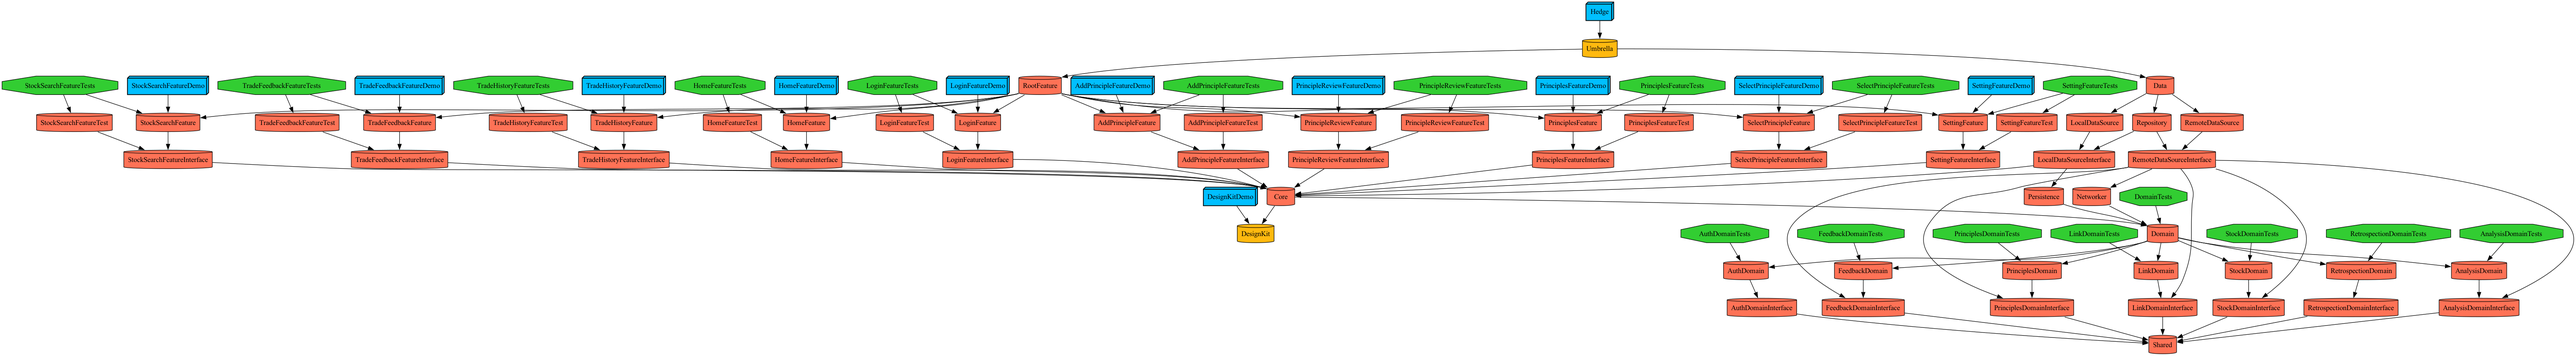
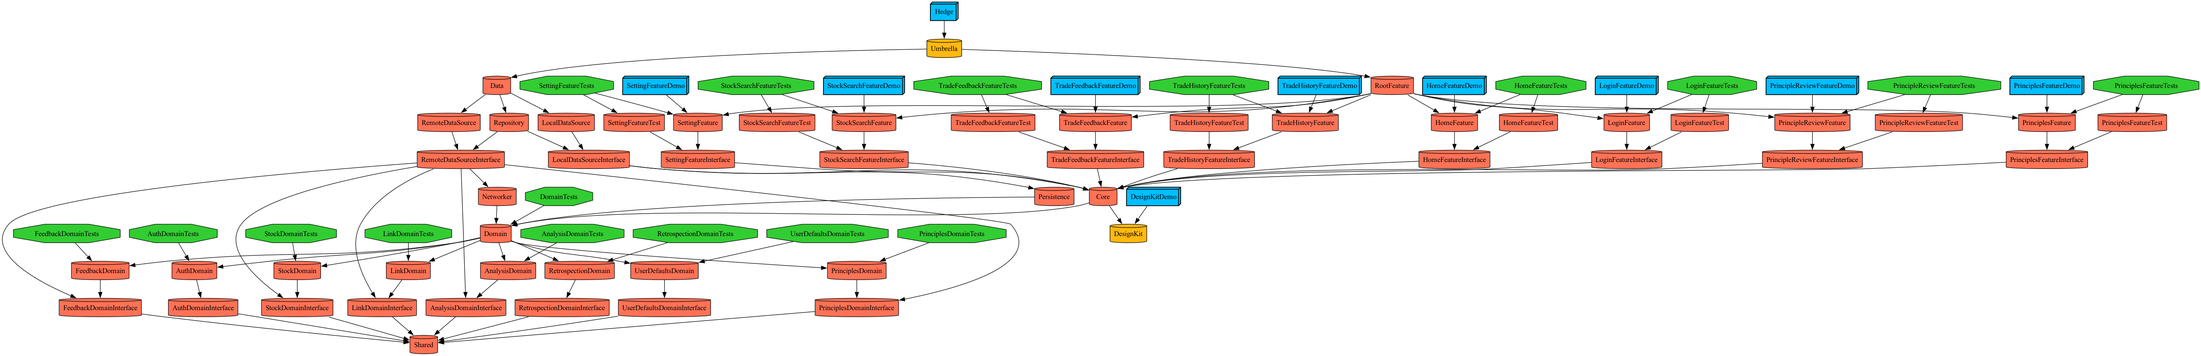
feat. last Retrospection dot

diff --git a/Hedge/Projects/Features/HomeFeature/Interface/Sources/Feature/HomeFeature.swift b/Hedge/Projects/Features/HomeFeature/Interface/Sources/Feature/HomeFeature.swift
@@ -3,18 +3,25 @@ import ComposableArchitecture
 
 import Core
 import RetrospectionDomainInterface
+import UserDefaultsDomainInterface
 
 @Reducer
 public struct HomeFeature {
     private let fetchRetrospectionUseCase: RetrospectionUseCase
     private let fetchBadgeReportUseCase: FetchBadgeReportUseCase
+    private let getUserDefaultsUseCase: GetUserDefaultsUseCase
+    private let deleteUserDefaultsUseCase: DeleteUserDefaultsUseCase
     
     public init(
         fetchRetrospectionUseCase: RetrospectionUseCase,
-        fetchBadgeReportUseCase: FetchBadgeReportUseCase
+        fetchBadgeReportUseCase: FetchBadgeReportUseCase,
+        getUserDefaultsUseCase: GetUserDefaultsUseCase,
+        deleteUserDefaultsUseCase: DeleteUserDefaultsUseCase
     ) {
         self.fetchRetrospectionUseCase = fetchRetrospectionUseCase
         self.fetchBadgeReportUseCase = fetchBadgeReportUseCase
+        self.getUserDefaultsUseCase = getUserDefaultsUseCase
+        self.deleteUserDefaultsUseCase = deleteUserDefaultsUseCase
     }
     
     @ObservableState
@@ -23,6 +30,7 @@ public struct HomeFeature {
         public var selectedType: TabType = .home
         public var retrospectionCompanies: [RetrospectionCompany] = []
         public var lastRetrospectionComapnyName: String?
+        public var lastRetrospectionID: Int?
         public var selectedCompanyName: String?
         public var isBadgePopupPresented: Bool = false
         public var isLoadingRetrospections: Bool = false
@@ -64,6 +72,7 @@ public struct HomeFeature {
         case fetchRetrospectionsFailure(Error)
         case fetchBadgeReportSuccess(RetrospectionBadgeReport)
         case fetchBadgeReportFailure(Error)
+        case deleteLastRetrospectionID
     }
     public enum AsyncAction {
         case fetchRetrospections
@@ -127,11 +136,11 @@ extension HomeFeature {
             )
         case .restrospectionButtonTapped:
             state.retrospectionButtonActive.toggle()
-            return .none
+            return .send(.inner(.deleteLastRetrospectionID))
         case .companyTapped(let selectedSymbol):
             state.selectedCompanyName = selectedSymbol
             updateGroupedRetrospections(for: selectedSymbol, state: &state)
-            return .none
+            return .send(.inner(.deleteLastRetrospectionID))
         case .retrospectTapped(let type):
             state.retrospectionButtonActive = false
             return .send(.delegate(.pushToStockSearch(type)))
@@ -157,6 +166,9 @@ extension HomeFeature {
         _ action: InnerAction
     ) -> Effect<Action> {
         switch action {
+        case .deleteLastRetrospectionID:
+            state.lastRetrospectionID = nil
+            return .none
         case .fetchRetrospectionsSuccess(let companies):
             state.retrospectionCompanies = companies
             
@@ -164,6 +176,11 @@ extension HomeFeature {
                 state.selectedCompanyName = lastRetrospectionComapnyName
             } else {
                 state.selectedCompanyName = companies.first?.companyName
+            }
+            
+            if let lastRetrospectionID: Int? = getUserDefaultsUseCase.execute(.retrospectionID) {
+                state.lastRetrospectionID = lastRetrospectionID
+                deleteUserDefaultsUseCase.execute(.retrospectionID)
             }
             
             if let selectedSymbol = state.selectedCompanyName {

diff --git a/Hedge/Projects/Features/PrincipleReviewFeature/Interface/Sources/Feature/PrincipleReviewFeature.swift b/Hedge/Projects/Features/PrincipleReviewFeature/Interface/Sources/Feature/PrincipleReviewFeature.swift
@@ -14,6 +14,7 @@ import StockDomainInterface
 import PrinciplesDomainInterface
 import RetrospectionDomainInterface
 import FeedbackDomainInterface
+import UserDefaultsDomainInterface
 
 @Reducer
 public struct PrincipleReviewFeature {
@@ -22,19 +23,22 @@ public struct PrincipleReviewFeature {
     private let uploadImageUseCase: UploadRetrospectionImageUseCase
     private let createRetrospectionUseCase: CreateRetrospectionUseCase
     private let fetchFeedbackUseCase: FetchFeedbackUseCase
+    private let saveUserDefaultsUseCase: SaveUserDefaultsUseCase
     
     public init(
         coordinator: PrincipleReviewCoordinator,
         fetchLinkUseCase: FetchLinkUseCase,
         uploadImageUseCase: UploadRetrospectionImageUseCase,
         createRetrospectionUseCase: CreateRetrospectionUseCase,
-        fetchFeedbackUseCase: FetchFeedbackUseCase
+        fetchFeedbackUseCase: FetchFeedbackUseCase,
+        saveUserDefaultsUseCase: SaveUserDefaultsUseCase
     ) {
         self.coordinator = coordinator
         self.fetchLinkUseCase = fetchLinkUseCase
         self.uploadImageUseCase = uploadImageUseCase
         self.createRetrospectionUseCase = createRetrospectionUseCase
         self.fetchFeedbackUseCase = fetchFeedbackUseCase
+        self.saveUserDefaultsUseCase = saveUserDefaultsUseCase
     }
     
     @ObservableState
@@ -459,6 +463,7 @@ extension PrincipleReviewFeature {
         case .createRetrospectionSuccess(let result):
             state.isSubmitting = true
             state.submissionResult = result
+            saveUserDefaultsUseCase.execute(value: result.id, .retrospectionID)
             return .send(.async(.fetchFeedback(result.id)))
         case .createRetrospectionFailure(let error):
             state.isSubmitting = false

diff --git a/Hedge/Projects/Features/HomeFeature/Sources/HomeView.swift b/Hedge/Projects/Features/HomeFeature/Sources/HomeView.swift
@@ -380,10 +380,21 @@ extension HomeView {
     @ViewBuilder
     private func retrospectItemView(retrospection: Retrospection) -> some View {
         VStack(alignment: .leading, spacing: 0) {
+            
+            var isLast: Bool = (store.lastRetrospectionID == retrospection.id)
+            
             // 금액 • 주수
-            Text("\(formatPrice(retrospection.price))원 • \(retrospection.volume)주")
-                .font(FontModel.h2Semibold)
-                .foregroundStyle(Color.hedgeUI.textTitle)
+            HStack(alignment: .top, spacing: 2) {
+                Text("\(formatPrice(retrospection.price))원 • \(retrospection.volume)주")
+                    .font(FontModel.h2Semibold)
+                    .foregroundStyle(Color.hedgeUI.textTitle)
+                
+                if isLast {
+                    Circle()
+                        .foregroundStyle(Color.hedgeUI.brandPrimary)
+                        .frame(width: 6, height: 6)
+                }
+            }
             
             // 매수/매도 + 날짜
             HStack(spacing: 5) {

diff --git a/Hedge/Projects/Features/PrincipleReviewFeature/Sources/Coordinator/DefaultPrincipleReviewCoordinator.swift b/Hedge/Projects/Features/PrincipleReviewFeature/Sources/Coordinator/DefaultPrincipleReviewCoordinator.swift
@@ -19,6 +19,7 @@ import StockDomainInterface
 import LinkDomainInterface
 import RetrospectionDomainInterface
 import FeedbackDomainInterface
+import UserDefaultsDomainInterface
 import Shared
 
 public final class DefaultPrincipleReviewCoordinator: PrincipleReviewCoordinator {
@@ -57,7 +58,8 @@ public final class DefaultPrincipleReviewCoordinator: PrincipleReviewCoordinator
                             fetchLinkUseCase: DIContainer.resolve(FetchLinkUseCase.self),
                             uploadImageUseCase: DIContainer.resolve(UploadRetrospectionImageUseCase.self),
                             createRetrospectionUseCase: DIContainer.resolve(CreateRetrospectionUseCase.self),
-                            fetchFeedbackUseCase: DIContainer.resolve(FetchFeedbackUseCase.self)
+                            fetchFeedbackUseCase: DIContainer.resolve(FetchFeedbackUseCase.self),
+                            saveUserDefaultsUseCase: DIContainer.resolve(SaveUserDefaultsUseCase.self)
                         )
                     }
                 )

diff --git a/Hedge/Projects/Features/RootFeature/Sources/Presentation/TabBarFeature.swift b/Hedge/Projects/Features/RootFeature/Sources/Presentation/TabBarFeature.swift
@@ -13,6 +13,7 @@ import Shared
 import HomeFeatureInterface
 import HomeFeature
 import RetrospectionDomainInterface
+import UserDefaultsDomainInterface
 
 @Reducer
 public struct TabBarFeature {
@@ -52,7 +53,9 @@ public struct TabBarFeature {
             .ifLet(\.homeState, action: \.delegate.homeAction) {
                 HomeFeature(
                     fetchRetrospectionUseCase: DIContainer.resolve(RetrospectionUseCase.self),
-                    fetchBadgeReportUseCase: DIContainer.resolve(FetchBadgeReportUseCase.self)
+                    fetchBadgeReportUseCase: DIContainer.resolve(FetchBadgeReportUseCase.self),
+                    getUserDefaultsUseCase: DIContainer.resolve(GetUserDefaultsUseCase.self),
+                    deleteUserDefaultsUseCase: DIContainer.resolve(DeleteUserDefaultsUseCase.self)
                 )
             }
     }

diff --git a/Hedge/Projects/Umbrella/Sources/Assembly/DomainAssembly.swift b/Hedge/Projects/Umbrella/Sources/Assembly/DomainAssembly.swift
@@ -23,6 +23,8 @@ import LinkDomainInterface
 import LinkDomain
 import RetrospectionDomainInterface
 import RetrospectionDomain
+import UserDefaultsDomainInterface
+import UserDefaultsDomain
 
 public struct DomainAssembly: Assembly {
     public init() {}
@@ -106,6 +108,18 @@ public struct DomainAssembly: Assembly {
             }
             
             return FetchBadgeReport(repository: repository)
+        }
+        
+        container.register(SaveUserDefaultsUseCase.self) { _ in
+            SaveUserDefaults()
+        }
+        
+        container.register(GetUserDefaultsUseCase.self) { _ in
+            GetUserDefaults()
+        }
+        
+        container.register(DeleteUserDefaultsUseCase.self) { _ in
+            DeleteUserDefaults()
         }
     }
 }

diff --git a/Hedge/Projects/Domains/UserDefaultsDomain/Sources/GetUserDefaults.swift b/Hedge/Projects/Domains/UserDefaultsDomain/Sources/GetUserDefaults.swift
@@ -1,0 +1,22 @@
+//
+//  GetUserDefaults.swift
+//  UserDefaultsDomain
+//
+//  Created by Auto on 11/11/25.
+//  Copyright © 2025 HedgeCompany. All rights reserved.
+//
+
+import Foundation
+
+import UserDefaultsDomainInterface
+
+public struct GetUserDefaults: GetUserDefaultsUseCase {
+    
+    public init() {}
+    
+    public func execute<T>(_ type: UserDefaultsDomainInterface.UserDefaultsType) -> T? {
+        let value = UserDefaults.standard.integer(forKey: type.rawValue)
+        return value as? T
+    }
+}
+

diff --git a/Hedge/Projects/Domains/UserDefaultsDomain/Sources/SaveUserDefaults.swift b/Hedge/Projects/Domains/UserDefaultsDomain/Sources/SaveUserDefaults.swift
@@ -1,0 +1,21 @@
+//
+//  SaveUserDefaults.swift
+//  UserDefaultsDomain
+//
+//  Created by Auto on 11/11/25.
+//  Copyright © 2025 HedgeCompany. All rights reserved.
+//
+
+import Foundation
+
+import UserDefaultsDomainInterface
+
+public struct SaveUserDefaults: SaveUserDefaultsUseCase {
+    
+    public init() {}
+    
+    public func execute<T>(value: T, _ type: UserDefaultsDomainInterface.UserDefaultsType) {
+        UserDefaults.standard.set(value, forKey: type.rawValue)
+    }
+}
+

diff --git a/Hedge/Projects/CoreKit/Core/Sources/TempStorage/TempStorage.swift b/Hedge/Projects/CoreKit/Core/Sources/TempStorage/TempStorage.swift
@@ -1,0 +1,22 @@
+//
+//  TempStorage.swift
+//  Core
+//
+//  Created by 이중엽 on 11/13/25.
+//  Copyright © 2025 HedgeCompany. All rights reserved.
+//
+
+import Foundation
+
+public enum TempStorage {
+    
+    private static var lastRetrospectionID: Int? = nil
+    
+    public static func getLastRetrospectionID() -> Int? {
+        return lastRetrospectionID
+    }
+    
+    public static func setLastRetrospectionID(_ id: Int?) {
+        self.lastRetrospectionID = id
+    }
+}

diff --git a/Hedge/Projects/Domains/UserDefaultsDomain/Sources/DeleteUserDefaults.swift b/Hedge/Projects/Domains/UserDefaultsDomain/Sources/DeleteUserDefaults.swift
@@ -1,0 +1,21 @@
+//
+//  DeleteUserDefaults.swift
+//  UserDefaultsDomain
+//
+//  Created by Auto on 11/11/25.
+//  Copyright © 2025 HedgeCompany. All rights reserved.
+//
+
+import Foundation
+
+import UserDefaultsDomainInterface
+
+public struct DeleteUserDefaults: DeleteUserDefaultsUseCase {
+    
+    public init() {}
+    
+    public func execute(_ type: UserDefaultsDomainInterface.UserDefaultsType) {
+        UserDefaults.standard.removeObject(forKey: type.rawValue)
+    }
+}
+

diff --git a/Hedge/Tuist/ProjectDescriptionHelpers/Extension/Dependency+Domain.swift b/Hedge/Tuist/ProjectDescriptionHelpers/Extension/Dependency+Domain.swift
@@ -49,4 +49,10 @@ public extension TargetDependency.Domain {
         public static let implement = domainDependency(target: name)
         public static let interface = domainInterfaceDependency(target: name)
     }
+
+    struct UserDefaults {
+        private static let name = "UserDefaultsDomain"
+        public static let implement = domainDependency(target: name)
+        public static let interface = domainInterfaceDependency(target: name)
+    }
 }

diff --git a/Hedge/Projects/Domains/UserDefaultsDomain/Interface/Sources/UseCase/SaveUserDefaultsUseCase.swift b/Hedge/Projects/Domains/UserDefaultsDomain/Interface/Sources/UseCase/SaveUserDefaultsUseCase.swift
@@ -1,0 +1,14 @@
+//
+//  SaveUserDefaultsUseCase.swift
+//  UserDefaultsDomainInterface
+//
+//  Created by Auto on 11/11/25.
+//  Copyright © 2025 HedgeCompany. All rights reserved.
+//
+
+import Foundation
+
+public protocol SaveUserDefaultsUseCase {
+    func execute<T>(value: T, _ type: UserDefaultsType)
+}
+
